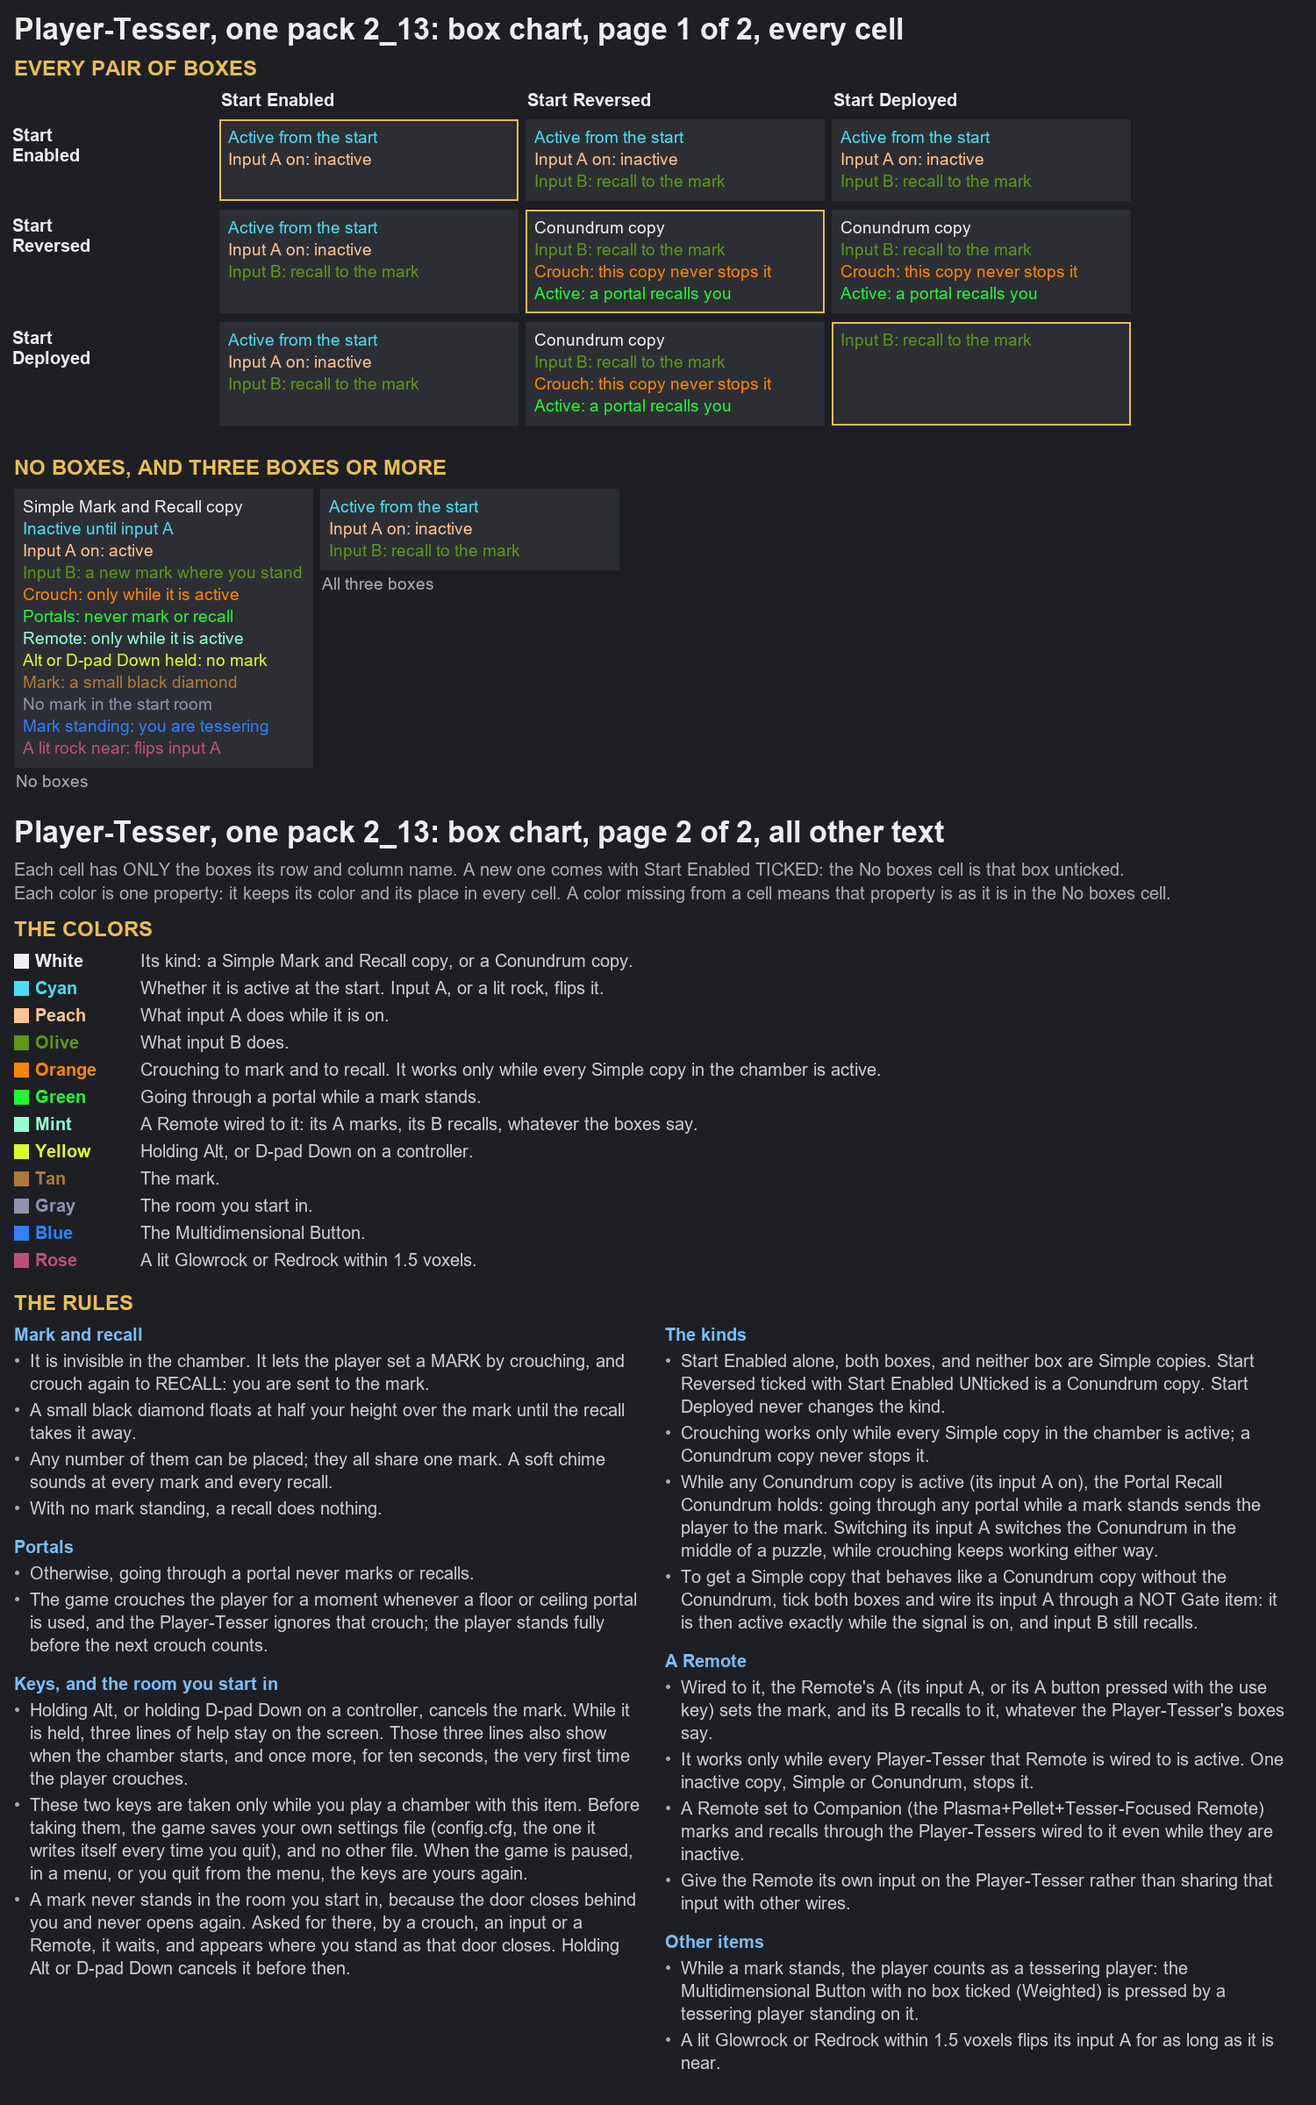
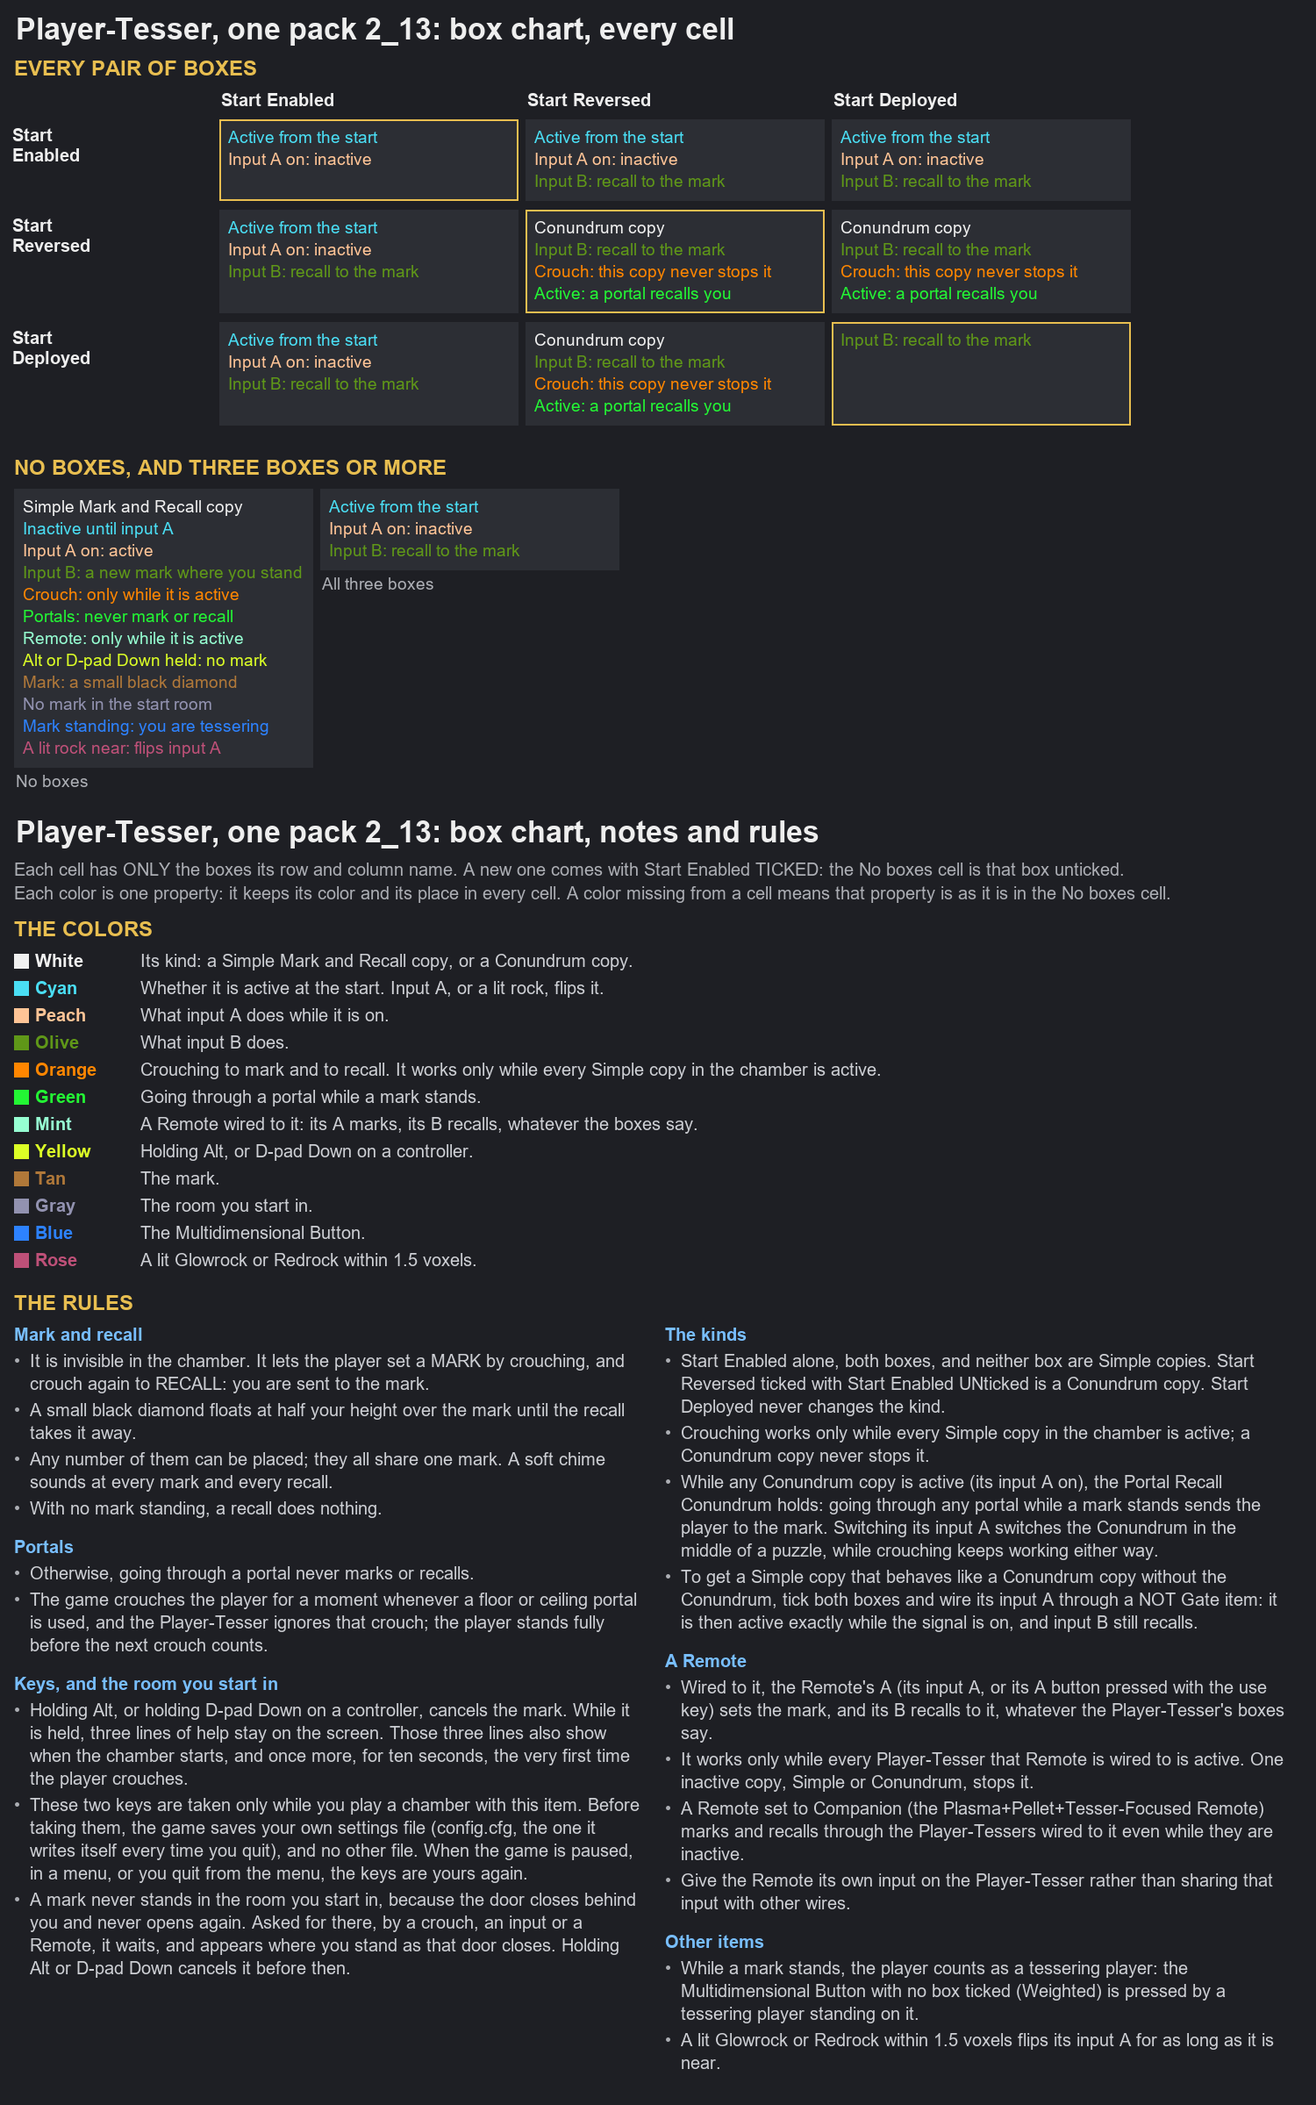
Charts: drawn headings match each chart's name, no page numbers
Every stacked chart picture was rebuilt from the original pages with each
page's drawn heading painted over: no "page N of M" or "part N of 3", no
"types by boxes" on a one-type chart (now "Cube Type X, boxes by boxes"),
notes pages headed "notes and rules". Every cell and notes block is
pixel-identical. The Projectile Filter's line "The key is on page 2" now
reads "The key is below the chart". Viewer sidebar: "Companion, boxes by boxes".

diff --git a/TurretsTessersTetras/charts/viewer.html b/TurretsTessersTetras/charts/viewer.html
@@ -57,7 +57,7 @@ button:hover{background:#343741}
  </div>
 </div>
 <script>
-const CHARTS = [{"item": "T-Stop-Slow", "title": "The T-Stop/Slow, pressing #34: every cell", "src": "T-Stop-Slow/1%20-%20The%20T-Stop-Slow%2C%20pressing%20%2334%20-%20every%20cell.png", "short": "Box chart"}, {"item": "T-Stop-Slow", "title": "The T-Stop/Slow, pressing #34: Timer by boxes (every Timer value against every box)", "src": "T-Stop-Slow/2%20-%20The%20T-Stop-Slow%2C%20pressing%20%2334%20-%20Timer%20by%20boxes%20%28every%20Timer%20value%20against%20every%20box%29.png", "short": "Timer by boxes"}, {"item": "Zemeckis Cube", "title": "The Zemeckis Cube, pressing #41, one pack 2_13: box chart, every cell", "src": "Zemeckis%20Cube/1%20-%20The%20Zemeckis%20Cube%2C%20pressing%20%2341%2C%20one%20pack%202_13%20-%20box%20chart%2C%20every%20cell.png", "short": "Box chart"}, {"item": "Zemeckis Cube", "title": "The Zemeckis Cube, pressing #41, one pack 2_13: Timer by boxes (every Timer value against every box)", "src": "Zemeckis%20Cube/2%20-%20The%20Zemeckis%20Cube%2C%20pressing%20%2341%2C%20one%20pack%202_13%20-%20Timer%20by%20boxes%20%28every%20Timer%20value%20against%20every%20box%29.png", "short": "Timer by boxes"}, {"item": "Tessers", "title": "Tessers, one pack 2_13: box chart, every cell", "src": "Tessers/1%20-%20Tessers%2C%20one%20pack%202_13%20-%20box%20chart%2C%20every%20cell.png", "short": "Box chart"}, {"item": "Multidimensional Button", "title": "Multidimensional Button, one pack 2_13: box chart, every cell", "src": "Multidimensional%20Button/1%20-%20Multidimensional%20Button%2C%20one%20pack%202_13%20-%20box%20chart%2C%20every%20cell.png", "short": "Box chart"}, {"item": "Multidimensional Button", "title": "Multidimensional Button, one pack 2_13: boxes by boxes, for each Button Type", "src": "Multidimensional%20Button/2%20-%20Multidimensional%20Button%2C%20one%20pack%202_13%20-%20boxes%20by%20boxes%2C%20for%20each%20Button%20Type.png", "short": "Boxes by boxes, each Button Type"}, {"item": "Player-Tesser", "title": "Player-Tesser, one pack 2_13: box chart, every cell", "src": "Player-Tesser/1%20-%20Player-Tesser%2C%20one%20pack%202_13%20-%20box%20chart%2C%20every%20cell.png", "short": "Box chart"}, {"item": "Portal Cube", "title": "The Portal Cube, one pack 2_13: every pair of boxes, then no boxes, then three boxes or more", "src": "Portal%20Cube/1%20-%20The%20Portal%20Cube%2C%20one%20pack%202_13%20-%20every%20pair%20of%20boxes%2C%20then%20no%20boxes%2C%20then%20three%20boxes%20or%20more.png", "short": "Box chart"}, {"item": "Portal Cube", "title": "The Portal Cube, one pack 2_13: Cube Types by boxes (every Cube Type against every box)", "src": "Portal%20Cube/2%20-%20The%20Portal%20Cube%2C%20one%20pack%202_13%20-%20Cube%20Types%20by%20boxes%20%28every%20Cube%20Type%20against%20every%20box%29.png", "short": "Cube Types by boxes"}, {"item": "Portal Cube", "title": "The Portal Cube, one pack 2_13: Cube Type Companion, boxes by boxes", "src": "Portal%20Cube/3%20-%20The%20Portal%20Cube%2C%20one%20pack%202_13%20-%20Cube%20Type%20Companion%2C%20boxes%20by%20boxes.png", "short": "Companion: boxes by boxes"}, {"item": "Portal Cube", "title": "The Portal Cube, one pack 2_13: Cube Type Reflection, boxes by boxes", "src": "Portal%20Cube/4%20-%20The%20Portal%20Cube%2C%20one%20pack%202_13%20-%20Cube%20Type%20Reflection%2C%20boxes%20by%20boxes.png", "short": "Reflection: boxes by boxes"}, {"item": "Portal Cube", "title": "The Portal Cube, one pack 2_13: Cube Type Sphere, boxes by boxes", "src": "Portal%20Cube/5%20-%20The%20Portal%20Cube%2C%20one%20pack%202_13%20-%20Cube%20Type%20Sphere%2C%20boxes%20by%20boxes.png", "short": "Sphere: boxes by boxes"}, {"item": "Portal Cube", "title": "The Portal Cube, one pack 2_13: Cube Type Franken, boxes by boxes", "src": "Portal%20Cube/6%20-%20The%20Portal%20Cube%2C%20one%20pack%202_13%20-%20Cube%20Type%20Franken%2C%20boxes%20by%20boxes.png", "short": "Franken: boxes by boxes"}, {"item": "Turret Target Flip Panel", "title": "The Turret Target Flip Panel, one pack 2_13: every cell", "src": "Turret%20Target%20Flip%20Panel/1%20-%20The%20Turret%20Target%20Flip%20Panel%2C%20one%20pack%202_13%20-%20every%20cell.png", "short": "Box chart"}, {"item": "Turret Target Flip Panel", "title": "The Turret Target Flip Panel, one pack 2_13: every cell (earlier version)", "src": "Turret%20Target%20Flip%20Panel/older/1%20-%20The%20Turret%20Target%20Flip%20Panel%2C%20one%20pack%202_13%20-%20every%20cell%20%28earlier%20version%29.png", "short": "Box chart (earlier version)"}, {"item": "Tetrahedral Cube", "title": "The Tetracube (Standard), pressing #51, the one pack 2.13: every pair of boxes, then no boxes and three boxes or more", "src": "Tetrahedral%20Cube/1%20-%20The%20Tetracube%20%28Standard%29%2C%20pressing%20%2351%2C%20the%20one%20pack%202.13%20-%20every%20pair%20of%20boxes%2C%20then%20no%20boxes%20and%20three%20boxes%20or%20more.png", "short": "Box chart"}, {"item": "Tetrahedral Cube", "title": "The Tetracube, pressing #51, the one pack 2.13: boxes by boxes, for each Cube Type (Companion, Reflection, Old-Style, IcosoKey)", "src": "Tetrahedral%20Cube/2%20-%20The%20Tetracube%2C%20pressing%20%2351%2C%20the%20one%20pack%202.13%20-%20boxes%20by%20boxes%2C%20for%20each%20Cube%20Type%20%28Companion%2C%20Reflection%2C%20Old-Style%2C%20IcosoKey%29.png", "short": "Boxes by boxes, each Cube Type"}, {"item": "Tetrabutton (Tributton)", "title": "The Tetrabutton (Weighted), pressing #47, the one pack 2.13: every cell", "src": "Tetrabutton%20%28Tributton%29/1%20-%20The%20Tetrabutton%20%28Weighted%29%2C%20pressing%20%2347%2C%20the%20one%20pack%202.13%20-%20every%20cell.png", "short": "Box chart"}, {"item": "Tetrabutton (Tributton)", "title": "The Tetrabutton, pressing #47, the one pack 2.13: Button Types by boxes (every Button Type against every box)", "src": "Tetrabutton%20%28Tributton%29/2%20-%20The%20Tetrabutton%2C%20pressing%20%2347%2C%20the%20one%20pack%202.13%20-%20Button%20Types%20by%20boxes%20%28every%20Button%20Type%20against%20every%20box%29.png", "short": "Button Types by boxes"}, {"item": "Rotatable Faith Plate", "title": "Rotatable Faith Plate, one pack 2_13: box chart, every cell", "src": "Rotatable%20Faith%20Plate/1%20-%20Rotatable%20Faith%20Plate%2C%20one%20pack%202_13%20-%20box%20chart%2C%20every%20cell.png", "short": "Box chart"}, {"item": "Rotatable Faith Plate", "title": "Rotatable Faith Plate, one pack 2_13: boxes by boxes, for each Cube Type", "src": "Rotatable%20Faith%20Plate/2%20-%20Rotatable%20Faith%20Plate%2C%20one%20pack%202_13%20-%20boxes%20by%20boxes%2C%20for%20each%20Cube%20Type.png", "short": "Boxes by boxes, each Cube Type"}, {"item": "Turret Detection Plate", "title": "Turret Detection Plate, one pack 2_13: box chart, every cell", "src": "Turret%20Detection%20Plate/1%20-%20Turret%20Detection%20Plate%2C%20one%20pack%202_13%20-%20box%20chart%2C%20every%20cell.png", "short": "Box chart"}, {"item": "Turret Detection Plate", "title": "Turret Detection Plate, one pack 2_13: boxes by boxes, for each Cube Type", "src": "Turret%20Detection%20Plate/2%20-%20Turret%20Detection%20Plate%2C%20one%20pack%202_13%20-%20boxes%20by%20boxes%2C%20for%20each%20Cube%20Type.png", "short": "Boxes by boxes, each Cube Type"}, {"item": "Remote-Control Device (Universal Remote)", "title": "Turret-Portal and Focused-Energy Remote-Control Device, one pack 2_13: box chart, every cell", "src": "Remote-Control%20Device%20%28Universal%20Remote%29/1%20-%20Turret-Portal%20and%20Focused-Energy%20Remote-Control%20Device%2C%20one%20pack%202_13%20-%20box%20chart%2C%20every%20cell.png", "short": "Box chart"}, {"item": "Remote-Control Device (Universal Remote)", "title": "Turret-Portal and Focused-Energy Remote-Control Device, one pack 2_13: boxes by boxes, for each Cube Type", "src": "Remote-Control%20Device%20%28Universal%20Remote%29/2%20-%20Turret-Portal%20and%20Focused-Energy%20Remote-Control%20Device%2C%20one%20pack%202_13%20-%20boxes%20by%20boxes%2C%20for%20each%20Cube%20Type.png", "short": "Boxes by boxes, each Cube Type"}, {"item": "Projectile Detection-Retention Filter", "title": "Projectile Detection-Retention Filter, one pack 2_12: every cell", "src": "Projectile%20Detection-Retention%20Filter/1%20-%20Projectile%20Detection-Retention%20Filter%2C%20one%20pack%202_12%20-%20every%20cell.png", "short": "Box chart"}, {"item": "Turret Recharging Station", "title": "The Turret Recharging Station, one pack 2_28: every cell", "src": "Turret%20Recharging%20Station/1%20-%20The%20Turret%20Recharging%20Station%2C%20one%20pack%202_28%20-%20every%20cell.png", "short": "Box chart"}];
+const CHARTS = [{"item": "T-Stop-Slow", "title": "The T-Stop/Slow, pressing #34: every cell", "src": "T-Stop-Slow/1%20-%20The%20T-Stop-Slow%2C%20pressing%20%2334%20-%20every%20cell.png", "short": "Box chart"}, {"item": "T-Stop-Slow", "title": "The T-Stop/Slow, pressing #34: Timer by boxes (every Timer value against every box)", "src": "T-Stop-Slow/2%20-%20The%20T-Stop-Slow%2C%20pressing%20%2334%20-%20Timer%20by%20boxes%20%28every%20Timer%20value%20against%20every%20box%29.png", "short": "Timer by boxes"}, {"item": "Zemeckis Cube", "title": "The Zemeckis Cube, pressing #41, one pack 2_13: box chart, every cell", "src": "Zemeckis%20Cube/1%20-%20The%20Zemeckis%20Cube%2C%20pressing%20%2341%2C%20one%20pack%202_13%20-%20box%20chart%2C%20every%20cell.png", "short": "Box chart"}, {"item": "Zemeckis Cube", "title": "The Zemeckis Cube, pressing #41, one pack 2_13: Timer by boxes (every Timer value against every box)", "src": "Zemeckis%20Cube/2%20-%20The%20Zemeckis%20Cube%2C%20pressing%20%2341%2C%20one%20pack%202_13%20-%20Timer%20by%20boxes%20%28every%20Timer%20value%20against%20every%20box%29.png", "short": "Timer by boxes"}, {"item": "Tessers", "title": "Tessers, one pack 2_13: box chart, every cell", "src": "Tessers/1%20-%20Tessers%2C%20one%20pack%202_13%20-%20box%20chart%2C%20every%20cell.png", "short": "Box chart"}, {"item": "Multidimensional Button", "title": "Multidimensional Button, one pack 2_13: box chart, every cell", "src": "Multidimensional%20Button/1%20-%20Multidimensional%20Button%2C%20one%20pack%202_13%20-%20box%20chart%2C%20every%20cell.png", "short": "Box chart"}, {"item": "Multidimensional Button", "title": "Multidimensional Button, one pack 2_13: boxes by boxes, for each Button Type", "src": "Multidimensional%20Button/2%20-%20Multidimensional%20Button%2C%20one%20pack%202_13%20-%20boxes%20by%20boxes%2C%20for%20each%20Button%20Type.png", "short": "Boxes by boxes, each Button Type"}, {"item": "Player-Tesser", "title": "Player-Tesser, one pack 2_13: box chart, every cell", "src": "Player-Tesser/1%20-%20Player-Tesser%2C%20one%20pack%202_13%20-%20box%20chart%2C%20every%20cell.png", "short": "Box chart"}, {"item": "Portal Cube", "title": "The Portal Cube, one pack 2_13: every pair of boxes, then no boxes, then three boxes or more", "src": "Portal%20Cube/1%20-%20The%20Portal%20Cube%2C%20one%20pack%202_13%20-%20every%20pair%20of%20boxes%2C%20then%20no%20boxes%2C%20then%20three%20boxes%20or%20more.png", "short": "Box chart"}, {"item": "Portal Cube", "title": "The Portal Cube, one pack 2_13: Cube Types by boxes (every Cube Type against every box)", "src": "Portal%20Cube/2%20-%20The%20Portal%20Cube%2C%20one%20pack%202_13%20-%20Cube%20Types%20by%20boxes%20%28every%20Cube%20Type%20against%20every%20box%29.png", "short": "Cube Types by boxes"}, {"item": "Portal Cube", "title": "The Portal Cube, one pack 2_13: Cube Type Companion, boxes by boxes", "src": "Portal%20Cube/3%20-%20The%20Portal%20Cube%2C%20one%20pack%202_13%20-%20Cube%20Type%20Companion%2C%20boxes%20by%20boxes.png", "short": "Companion, boxes by boxes"}, {"item": "Portal Cube", "title": "The Portal Cube, one pack 2_13: Cube Type Reflection, boxes by boxes", "src": "Portal%20Cube/4%20-%20The%20Portal%20Cube%2C%20one%20pack%202_13%20-%20Cube%20Type%20Reflection%2C%20boxes%20by%20boxes.png", "short": "Reflection, boxes by boxes"}, {"item": "Portal Cube", "title": "The Portal Cube, one pack 2_13: Cube Type Sphere, boxes by boxes", "src": "Portal%20Cube/5%20-%20The%20Portal%20Cube%2C%20one%20pack%202_13%20-%20Cube%20Type%20Sphere%2C%20boxes%20by%20boxes.png", "short": "Sphere, boxes by boxes"}, {"item": "Portal Cube", "title": "The Portal Cube, one pack 2_13: Cube Type Franken, boxes by boxes", "src": "Portal%20Cube/6%20-%20The%20Portal%20Cube%2C%20one%20pack%202_13%20-%20Cube%20Type%20Franken%2C%20boxes%20by%20boxes.png", "short": "Franken, boxes by boxes"}, {"item": "Turret Target Flip Panel", "title": "The Turret Target Flip Panel, one pack 2_13: every cell", "src": "Turret%20Target%20Flip%20Panel/1%20-%20The%20Turret%20Target%20Flip%20Panel%2C%20one%20pack%202_13%20-%20every%20cell.png", "short": "Box chart"}, {"item": "Turret Target Flip Panel", "title": "The Turret Target Flip Panel, one pack 2_13: every cell (earlier version)", "src": "Turret%20Target%20Flip%20Panel/older/1%20-%20The%20Turret%20Target%20Flip%20Panel%2C%20one%20pack%202_13%20-%20every%20cell%20%28earlier%20version%29.png", "short": "Box chart (earlier version)"}, {"item": "Tetrahedral Cube", "title": "The Tetracube (Standard), pressing #51, the one pack 2.13: every pair of boxes, then no boxes and three boxes or more", "src": "Tetrahedral%20Cube/1%20-%20The%20Tetracube%20%28Standard%29%2C%20pressing%20%2351%2C%20the%20one%20pack%202.13%20-%20every%20pair%20of%20boxes%2C%20then%20no%20boxes%20and%20three%20boxes%20or%20more.png", "short": "Box chart"}, {"item": "Tetrahedral Cube", "title": "The Tetracube, pressing #51, the one pack 2.13: boxes by boxes, for each Cube Type (Companion, Reflection, Old-Style, IcosoKey)", "src": "Tetrahedral%20Cube/2%20-%20The%20Tetracube%2C%20pressing%20%2351%2C%20the%20one%20pack%202.13%20-%20boxes%20by%20boxes%2C%20for%20each%20Cube%20Type%20%28Companion%2C%20Reflection%2C%20Old-Style%2C%20IcosoKey%29.png", "short": "Boxes by boxes, each Cube Type"}, {"item": "Tetrabutton (Tributton)", "title": "The Tetrabutton (Weighted), pressing #47, the one pack 2.13: every cell", "src": "Tetrabutton%20%28Tributton%29/1%20-%20The%20Tetrabutton%20%28Weighted%29%2C%20pressing%20%2347%2C%20the%20one%20pack%202.13%20-%20every%20cell.png", "short": "Box chart"}, {"item": "Tetrabutton (Tributton)", "title": "The Tetrabutton, pressing #47, the one pack 2.13: Button Types by boxes (every Button Type against every box)", "src": "Tetrabutton%20%28Tributton%29/2%20-%20The%20Tetrabutton%2C%20pressing%20%2347%2C%20the%20one%20pack%202.13%20-%20Button%20Types%20by%20boxes%20%28every%20Button%20Type%20against%20every%20box%29.png", "short": "Button Types by boxes"}, {"item": "Rotatable Faith Plate", "title": "Rotatable Faith Plate, one pack 2_13: box chart, every cell", "src": "Rotatable%20Faith%20Plate/1%20-%20Rotatable%20Faith%20Plate%2C%20one%20pack%202_13%20-%20box%20chart%2C%20every%20cell.png", "short": "Box chart"}, {"item": "Rotatable Faith Plate", "title": "Rotatable Faith Plate, one pack 2_13: boxes by boxes, for each Cube Type", "src": "Rotatable%20Faith%20Plate/2%20-%20Rotatable%20Faith%20Plate%2C%20one%20pack%202_13%20-%20boxes%20by%20boxes%2C%20for%20each%20Cube%20Type.png", "short": "Boxes by boxes, each Cube Type"}, {"item": "Turret Detection Plate", "title": "Turret Detection Plate, one pack 2_13: box chart, every cell", "src": "Turret%20Detection%20Plate/1%20-%20Turret%20Detection%20Plate%2C%20one%20pack%202_13%20-%20box%20chart%2C%20every%20cell.png", "short": "Box chart"}, {"item": "Turret Detection Plate", "title": "Turret Detection Plate, one pack 2_13: boxes by boxes, for each Cube Type", "src": "Turret%20Detection%20Plate/2%20-%20Turret%20Detection%20Plate%2C%20one%20pack%202_13%20-%20boxes%20by%20boxes%2C%20for%20each%20Cube%20Type.png", "short": "Boxes by boxes, each Cube Type"}, {"item": "Remote-Control Device (Universal Remote)", "title": "Turret-Portal and Focused-Energy Remote-Control Device, one pack 2_13: box chart, every cell", "src": "Remote-Control%20Device%20%28Universal%20Remote%29/1%20-%20Turret-Portal%20and%20Focused-Energy%20Remote-Control%20Device%2C%20one%20pack%202_13%20-%20box%20chart%2C%20every%20cell.png", "short": "Box chart"}, {"item": "Remote-Control Device (Universal Remote)", "title": "Turret-Portal and Focused-Energy Remote-Control Device, one pack 2_13: boxes by boxes, for each Cube Type", "src": "Remote-Control%20Device%20%28Universal%20Remote%29/2%20-%20Turret-Portal%20and%20Focused-Energy%20Remote-Control%20Device%2C%20one%20pack%202_13%20-%20boxes%20by%20boxes%2C%20for%20each%20Cube%20Type.png", "short": "Boxes by boxes, each Cube Type"}, {"item": "Projectile Detection-Retention Filter", "title": "Projectile Detection-Retention Filter, one pack 2_12: every cell", "src": "Projectile%20Detection-Retention%20Filter/1%20-%20Projectile%20Detection-Retention%20Filter%2C%20one%20pack%202_12%20-%20every%20cell.png", "short": "Box chart"}, {"item": "Turret Recharging Station", "title": "The Turret Recharging Station, one pack 2_28: every cell", "src": "Turret%20Recharging%20Station/1%20-%20The%20Turret%20Recharging%20Station%2C%20one%20pack%202_28%20-%20every%20cell.png", "short": "Box chart"}];
 const $ = id => document.getElementById(id);
 const stage = $("stage"), img = $("img");
 let i = 0, s = 1, x = 0, y = 0;
